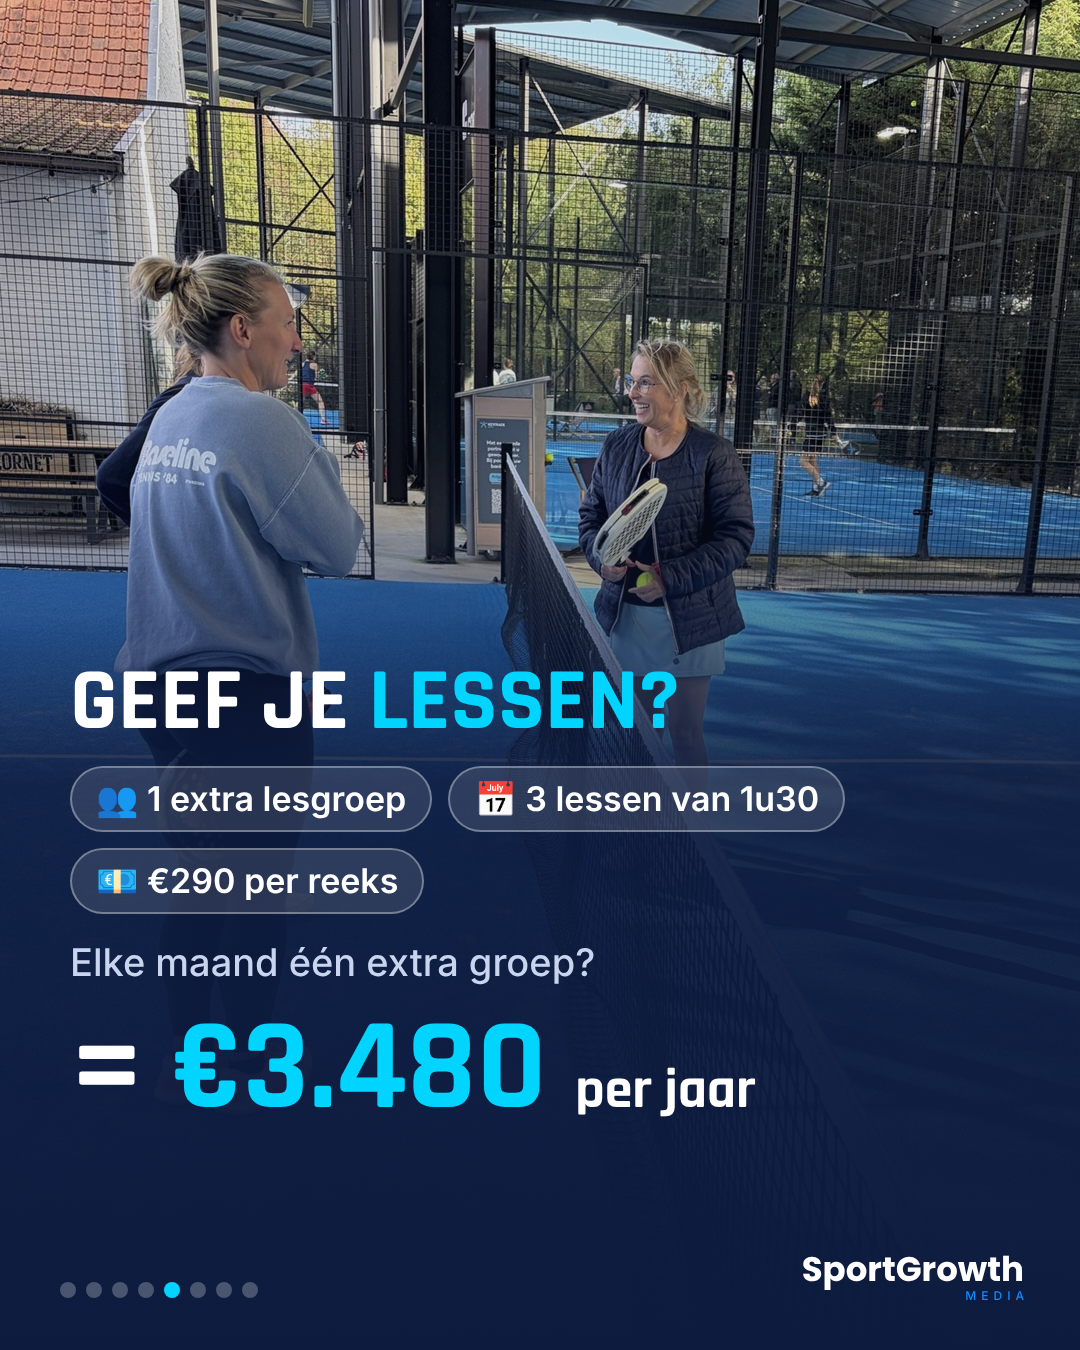
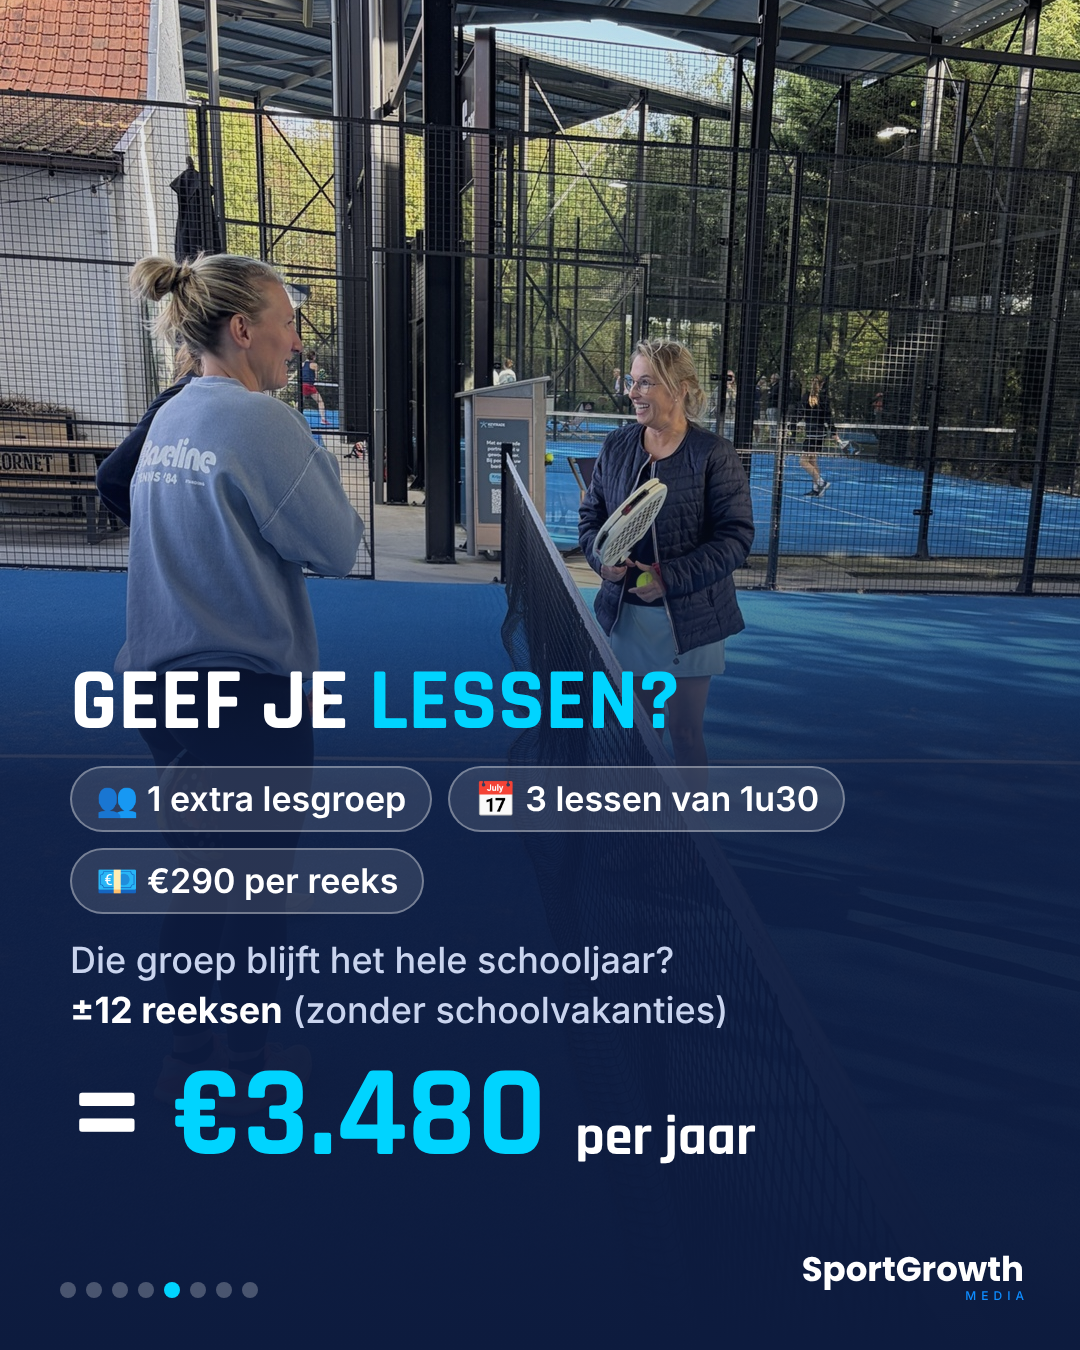
Carrousel: lessen zonder schoolvakanties (±12 reeksen)
Claude-Session: https://claude.ai/code/session_01QkSWZzWLTduRQtPp2zathG

Changed region(s): [[0.0611, 0.6844, 0.7028, 0.8711]]

diff --git a/instagram/carrousel-extra-uur/build.js b/instagram/carrousel-extra-uur/build.js
@@ -93,7 +93,7 @@ S.push(page(5, `
 <div style="display:flex;gap:16px;flex-wrap:wrap">
 ${['👥 1 extra lesgroep','📅 3 lessen van 1u30','💶 €290 per reeks'].map(x=>`<span style="background:rgba(255,255,255,.12);border:2px solid rgba(255,255,255,.35);border-radius:40px;padding:14px 24px;font:600 34px/1 In">${x}</span>`).join('')}
 </div>
-<p class="t" style="font-size:38px">Elke maand één extra groep?</p>
+<p class="t" style="font-size:36px">Die groep blijft het hele schooljaar?<br><b>±12 reeksen</b> (zonder schoolvakanties)</p>
 <div style="font:700 130px/.9 Rj">= <span class="c">€3.480</span> <span style="font-size:56px">per jaar</span></div>
 </div>`));
 // 6 WAAR KOMEN ZE VANDAAN · gsm met story

diff --git a/instagram/carrousel-extra-uur/README.md b/instagram/carrousel-extra-uur/README.md
@@ -1,3 +1,3 @@
 # Carrousel ma 9/11 · "Zoveel levert één extra geboekt uur per week je op" (ZO WERKT SGM · VERHUUR)
 `node build.js` → slide01-08.png (1080x1350). Caption: caption.txt. Cover: jari-tennis-lacht.jpg (gezicht + cijfer, zie statistieken.md).
-Rekenvoorbeeld (prijs Jari 6/11: 1u30 = €48-52): €48 per boeking (4 × €12), 52 weken = €2.496. Lessen (prijs Jari): €290 per groep per reeks van 3 lessen van 1u30; elke maand 1 extra groep = €3.480. Mini €249/maand = ±€57/week ≈ 1,2 boeking.
+Rekenvoorbeeld (prijs Jari 6/11: 1u30 = €48-52): €48 per boeking (4 × €12), 52 weken = €2.496. Lessen (prijs Jari): €290 per groep per reeks van 3 lessen van 1u30; 1 extra groep het hele schooljaar = ±37 lesweken / 3 = ±12 reeksen × €290 = €3.480 (geen lessen in schoolvakanties). Mini €249/maand = ±€57/week ≈ 1,2 boeking.
